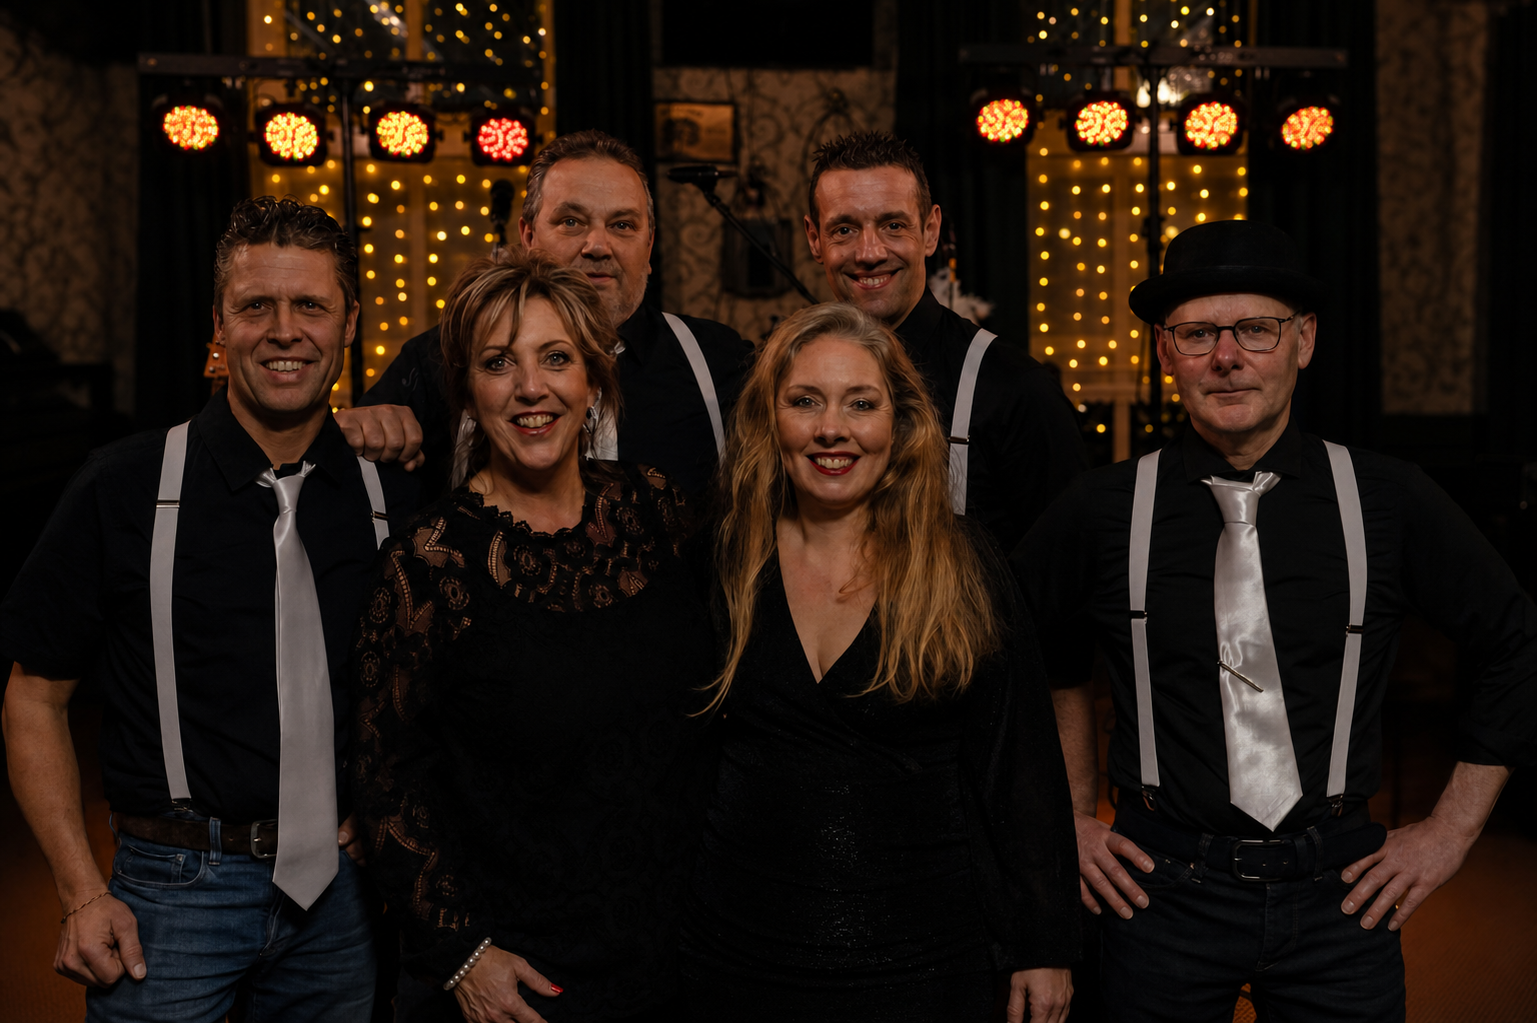
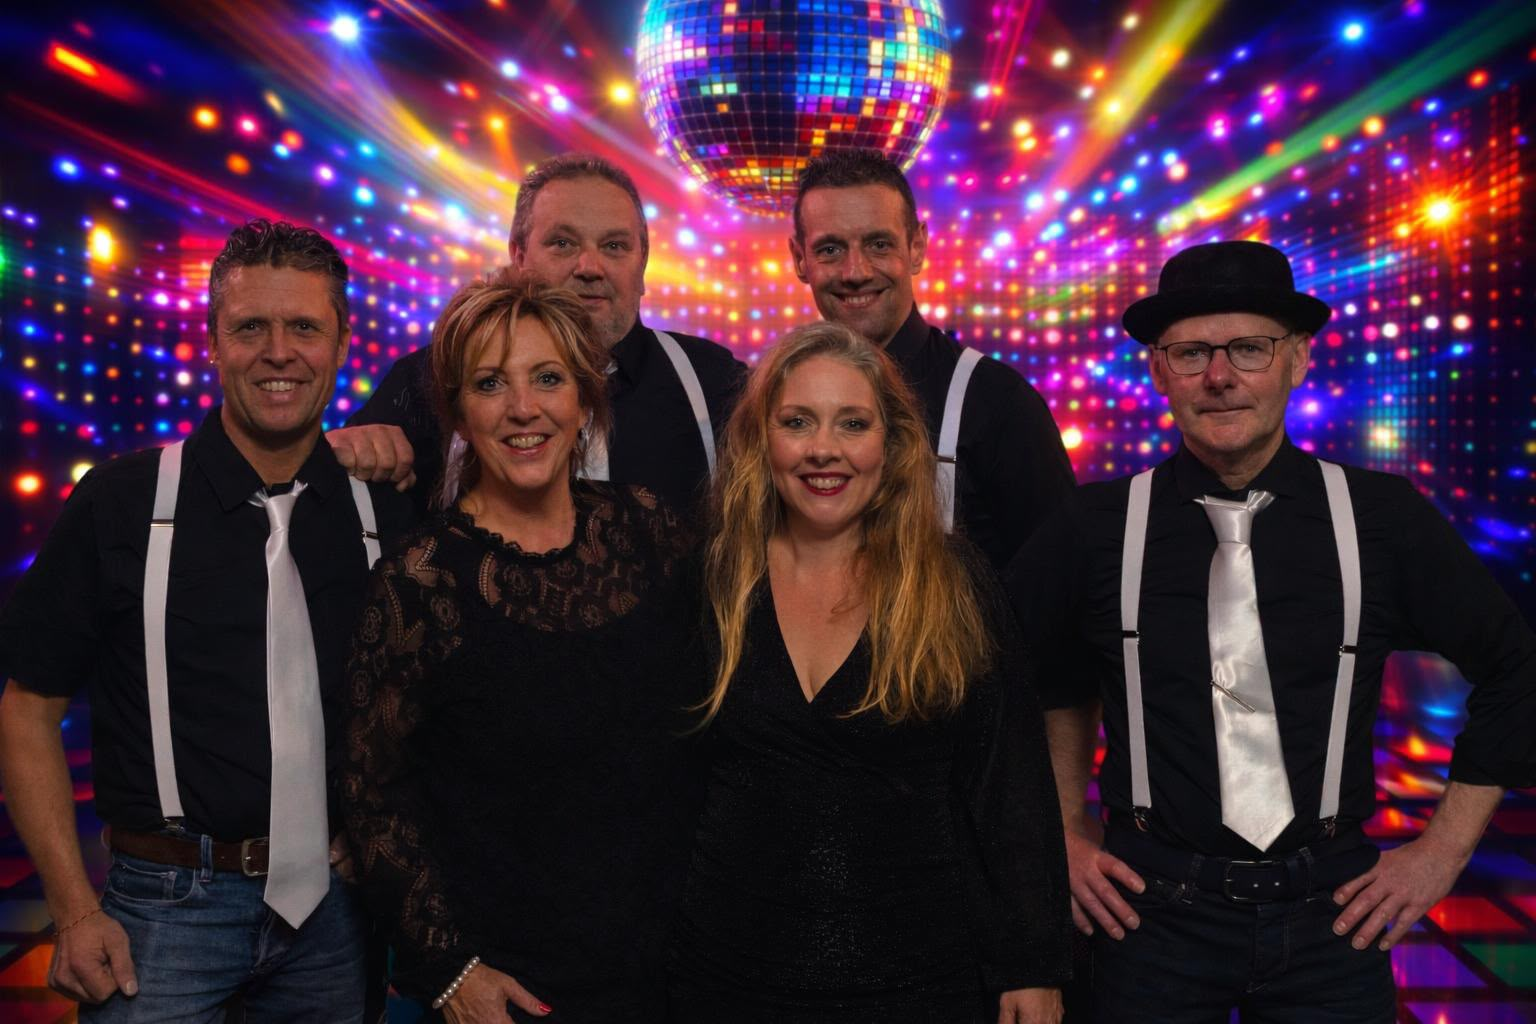
Use one hero image across all screens

diff --git a/app/globals.css b/app/globals.css
@@ -26,7 +26,7 @@
   --font-display:"Orbitron",Arial,sans-serif;
   --font-body:"Inter",Arial,sans-serif;
   /* HERO VERVANGEN: zet het nieuwe bestand in /public en wijzig alleen deze URL. */
-  --hero-image:url('/goodtimes-group-hero-final.png');
+  --hero-image:url('/goodtimes-group-hero.png');
   --supporting-image:url('/goodtimes-hero.png');
   --member-1:url('/members/esther-zang.png');
   --member-2:url('/members/cindy-zang.png');
@@ -42,7 +42,7 @@
 .nav-cta,.primary{background:linear-gradient(135deg,#0d91ee,#7852ec);padding:14px 19px;font-weight:600;display:inline-flex;gap:24px;align-items:center;border:0;color:white;cursor:pointer;transition:transform .25s ease,box-shadow .25s ease,filter .25s ease}.nav-cta:hover,.primary:hover{transform:translateY(-3px);box-shadow:0 12px 34px rgba(77,107,255,.3);filter:brightness(1.08)}.nav-cta:focus-visible,.primary:focus-visible,.secondary:focus-visible{outline:2px solid var(--blue);outline-offset:4px}
 .menu{display:none;background:none;border:0;width:40px;height:40px}.menu i{display:block;height:2px;background:white;margin:7px;width:24px}
 /* Hero: toon altijd de volledige band; wijzig alleen --hero-image om de foto later te vervangen. */
-.hero{width:100%;min-height:max(680px,calc(100svh - 78px));position:relative;display:flex;align-items:center;overflow:hidden;background:#07080b}.hero-image{position:absolute;inset:0;background-image:var(--hero-image);background-position:right center;background-size:contain;background-repeat:no-repeat;filter:brightness(1.12)}.hero-overlay{position:absolute;inset:0;background:linear-gradient(90deg,rgba(2,3,7,.96) 0%,rgba(2,3,7,.86) 24%,rgba(2,3,7,.46) 40%,rgba(2,3,7,.06) 59%,transparent 76%)}
+.hero{width:100%;min-height:max(680px,calc(100svh - 78px));position:relative;display:flex;align-items:center;overflow:hidden;background:#07080b}.hero-image{position:absolute;inset:0;background-image:var(--hero-image);background-position:center;background-size:contain;background-repeat:no-repeat;filter:brightness(1.12)}.hero-overlay{position:absolute;inset:0;background:linear-gradient(90deg,rgba(2,3,7,.96) 0%,rgba(2,3,7,.86) 24%,rgba(2,3,7,.46) 40%,rgba(2,3,7,.06) 59%,transparent 76%)}
 .hero-content{position:relative;z-index:2;width:min(34vw,600px);padding:70px 0 70px clamp(28px,5vw,90px)}.eyebrow{text-transform:uppercase;color:var(--blue);letter-spacing:3.5px;font:600 11px/1.3 Inter;margin:0 0 22px}.hero h1,.page-intro h1{font:800 clamp(68px,6vw,108px)/.8 "Barlow Condensed";letter-spacing:-3px;margin:0;text-transform:uppercase}.hero h1 em,.page-intro h1 em{font-style:italic;color:transparent;-webkit-text-stroke:2px #8f72ff}.hero h1 em{font-size:.7em;letter-spacing:-1px}.hero-intro{margin:30px 0 32px;max-width:520px}.hero-intro p{color:#c6c8cf;line-height:1.65;margin:0 0 8px;font-size:14px}.hero-intro p:first-child{color:#fff;font-weight:600;font-size:16px}.actions{display:flex;align-items:center;gap:14px;flex-wrap:wrap}.hero-button{min-height:58px;padding:18px 24px;text-transform:uppercase;letter-spacing:.6px}.secondary{font-size:13px;font-weight:600;border:1px solid #565b69;background:rgba(7,8,11,.56);display:inline-flex;align-items:center;gap:22px;padding:14px 18px;transition:transform .25s ease,border-color .25s ease,background .25s ease,box-shadow .25s ease}.secondary:hover{transform:translateY(-3px);border-color:var(--blue);background:rgba(25,167,255,.1);box-shadow:0 12px 30px rgba(25,167,255,.12)}.secondary span{border:1px solid #555a68;border-radius:50%;padding:8px;margin-left:4px}.scroll{position:absolute;right:42px;bottom:30px;z-index:2;writing-mode:vertical-rl;font-size:9px;letter-spacing:2px;color:#8b8f98}.scroll span{margin-top:15px;color:var(--blue)}
 section{padding:100px clamp(22px,8vw,135px)}.statement{text-align:center;max-width:1060px;margin:auto}.statement h2,.booking-band h2{font:800 clamp(50px,7vw,100px)/.9 "Barlow Condensed";margin:0;text-transform:uppercase}.statement h2 span,.booking-band h2 span{color:transparent;-webkit-text-stroke:1px #8b5cf6}.statement>p:last-child{max-width:650px;margin:32px auto 0;color:var(--muted);line-height:1.8}
 .split{display:grid;grid-template-columns:1.05fr .95fr;padding-top:30px;padding-bottom:120px;gap:0}.feature-photo,.about-image{min-height:650px;background-image:linear-gradient(30deg,rgba(13,145,238,.15),rgba(139,92,246,.12)),var(--supporting-image);background-position:center,62% center;background-size:cover;filter:saturate(.65);position:relative}.feature-photo:before,.about-image:before{content:"";position:absolute;inset:0;background:linear-gradient(180deg,transparent 50%,rgba(5,6,10,.9))}.feature-photo>span{position:absolute;bottom:30px;left:30px;font:800 42px "Barlow Condensed";color:transparent;-webkit-text-stroke:1px #fff}
@@ -166,14 +166,14 @@ input,select,textarea{border-color:rgba(112,125,166,.48)}input:focus,select:focu
 .thanks span{background:var(--gradient-neon);box-shadow:var(--glow-blue)}
 footer{background:linear-gradient(180deg,rgba(5,7,17,.35),#03040b);border-color:var(--line)}
 /* Tablet */
-@media(max-width:900px){.menu{display:block}.nav{position:absolute;top:78px;left:0;right:0;background:#0b0c10;padding:28px;display:none;flex-direction:column;align-items:stretch}.nav.open{display:flex}.nav a{padding:9px}.nav a.active:after{display:none}.hero-image{background-position:right center;background-size:100% auto}.hero-overlay{background:linear-gradient(90deg,rgba(2,3,7,.97) 0%,rgba(2,3,7,.88) 25%,rgba(2,3,7,.42) 42%,rgba(2,3,7,.04) 61%)}.hero h1{font-size:56px}.hero-content{width:34%;max-width:none;padding-left:4vw;padding-right:0}.hero-intro p{font-size:12px}.hero-intro p:first-child{font-size:14px}.actions{align-items:flex-start;flex-direction:column}.hero-button{min-height:50px;padding:14px 16px}.home-intro-copy{grid-template-columns:1fr;gap:28px}.home-highlights{grid-template-columns:1fr;gap:10px}.split,.about-grid,.contact-grid{grid-template-columns:1fr}.feature-photo{min-height:500px}.member-grid{grid-template-columns:repeat(2,1fr)}.repertoire-grid{grid-template-columns:1fr}.page-intro{min-height:480px}.page-intro h1{font-size:74px}.note{flex-direction:column;align-items:flex-start;gap:25px}}
+@media(max-width:900px){.menu{display:block}.nav{position:absolute;top:78px;left:0;right:0;background:#0b0c10;padding:28px;display:none;flex-direction:column;align-items:stretch}.nav.open{display:flex}.nav a{padding:9px}.nav a.active:after{display:none}.hero-image{background-position:center;background-size:contain}.hero-overlay{background:linear-gradient(90deg,rgba(2,3,7,.97) 0%,rgba(2,3,7,.88) 25%,rgba(2,3,7,.42) 42%,rgba(2,3,7,.04) 61%)}.hero h1{font-size:56px}.hero-content{width:34%;max-width:none;padding-left:4vw;padding-right:0}.hero-intro p{font-size:12px}.hero-intro p:first-child{font-size:14px}.actions{align-items:flex-start;flex-direction:column}.hero-button{min-height:50px;padding:14px 16px}.home-intro-copy{grid-template-columns:1fr;gap:28px}.home-highlights{grid-template-columns:1fr;gap:10px}.split,.about-grid,.contact-grid{grid-template-columns:1fr}.feature-photo{min-height:500px}.member-grid{grid-template-columns:repeat(2,1fr)}.repertoire-grid{grid-template-columns:1fr}.page-intro{min-height:480px}.page-intro h1{font-size:74px}.note{flex-direction:column;align-items:flex-start;gap:25px}}
 /* Mobiel */
-@media(max-width:600px){section{padding:75px 22px}.topbar .brand{font-size:31px}.hero{min-height:860px;align-items:flex-end;background:#07080b}.hero-image{background-position:center top;background-size:100% auto}.hero-overlay{background:linear-gradient(0deg,rgba(2,3,7,.98) 0%,rgba(2,3,7,.94) 51%,rgba(2,3,7,.08) 69%)}.hero-content{width:100%;padding:56px 22px}.hero h1{font-size:56px}.hero h1 em{font-size:.66em;-webkit-text-stroke:1px #8f72ff}.hero-intro{margin:24px 0}.hero-intro p{font-size:13px}.hero-intro p:first-child{font-size:15px}.actions{align-items:stretch;flex-direction:column}.hero-button{justify-content:space-between;width:100%}.scroll{display:none}.statement h2,.booking-band h2{font-size:48px}.split{padding:0}.feature-copy{padding:55px 25px}.feature-copy li{gap:18px}.section-head{align-items:flex-start;gap:25px;flex-direction:column}.show-row{grid-template-columns:70px 1fr}.show-row>a{grid-column:2;margin-top:15px}.booking-band{padding:90px 22px}.footer-bottom{gap:15px;flex-direction:column}.about-grid{padding:60px 22px}.member-grid{grid-template-columns:1fr 1fr;gap:18px 10px}.portrait{height:260px}.contact-grid{padding:60px 22px}.contact-grid form{padding:28px 20px}.field-row{grid-template-columns:1fr}.contact-grid form small{display:block;margin:15px 0}.page-intro{padding-top:110px}.page-intro h1{font-size:60px;letter-spacing:-1px}}
+@media(max-width:600px){section{padding:75px 22px}.topbar .brand{font-size:31px}.hero{min-height:860px;align-items:flex-end;background:#07080b}.hero-image{background-position:center;background-size:contain}.hero-overlay{background:linear-gradient(0deg,rgba(2,3,7,.98) 0%,rgba(2,3,7,.94) 51%,rgba(2,3,7,.08) 69%)}.hero-content{width:100%;padding:56px 22px}.hero h1{font-size:56px}.hero h1 em{font-size:.66em;-webkit-text-stroke:1px #8f72ff}.hero-intro{margin:24px 0}.hero-intro p{font-size:13px}.hero-intro p:first-child{font-size:15px}.actions{align-items:stretch;flex-direction:column}.hero-button{justify-content:space-between;width:100%}.scroll{display:none}.statement h2,.booking-band h2{font-size:48px}.split{padding:0}.feature-copy{padding:55px 25px}.feature-copy li{gap:18px}.section-head{align-items:flex-start;gap:25px;flex-direction:column}.show-row{grid-template-columns:70px 1fr}.show-row>a{grid-column:2;margin-top:15px}.booking-band{padding:90px 22px}.footer-bottom{gap:15px;flex-direction:column}.about-grid{padding:60px 22px}.member-grid{grid-template-columns:1fr 1fr;gap:18px 10px}.portrait{height:260px}.contact-grid{padding:60px 22px}.contact-grid form{padding:28px 20px}.field-row{grid-template-columns:1fr}.contact-grid form small{display:block;margin:15px 0}.page-intro{padding-top:110px}.page-intro h1{font-size:60px;letter-spacing:-1px}}
 /* Smartphone-hero: een compacte, zelfstandige compositie; tablet en desktop blijven ongewijzigd. */
 @media(max-width:767px){
   .hero{min-height:690px;align-items:flex-start;padding:0;background:#07080b}
   .home-hero{min-height:575px}
-  .hero-image{inset:0 0 auto;height:410px;background-image:url('/goodtimes-group-hero-mobile-v2.png');background-size:100% auto;background-position:center 40%}
+  .hero-image{inset:0 0 auto;height:410px;background-size:contain;background-position:center}
   .hero-overlay{background:linear-gradient(90deg,rgba(2,3,7,.7) 0%,rgba(2,3,7,.14) 6%,transparent 10%,transparent 90%,rgba(2,3,7,.14) 94%,rgba(2,3,7,.7) 100%),linear-gradient(180deg,rgba(2,3,7,.06) 0%,rgba(2,3,7,.16) 30%,rgba(2,3,7,.88) 52%,#07080b 66%)}
   .hero-content{width:100%;max-width:none;padding:255px 22px 38px}
   .hero .eyebrow{max-width:330px;margin-bottom:15px;font-size:9px;line-height:1.55;letter-spacing:2.4px}
